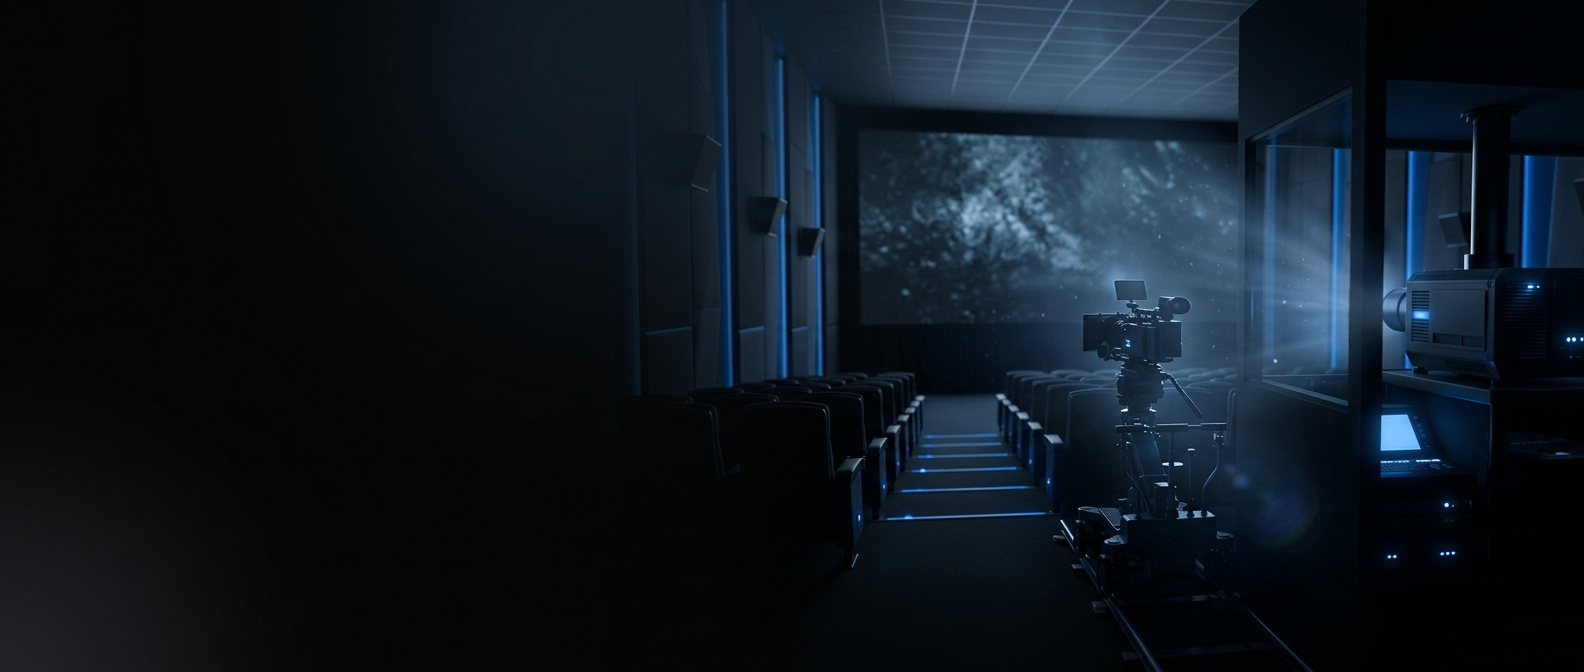
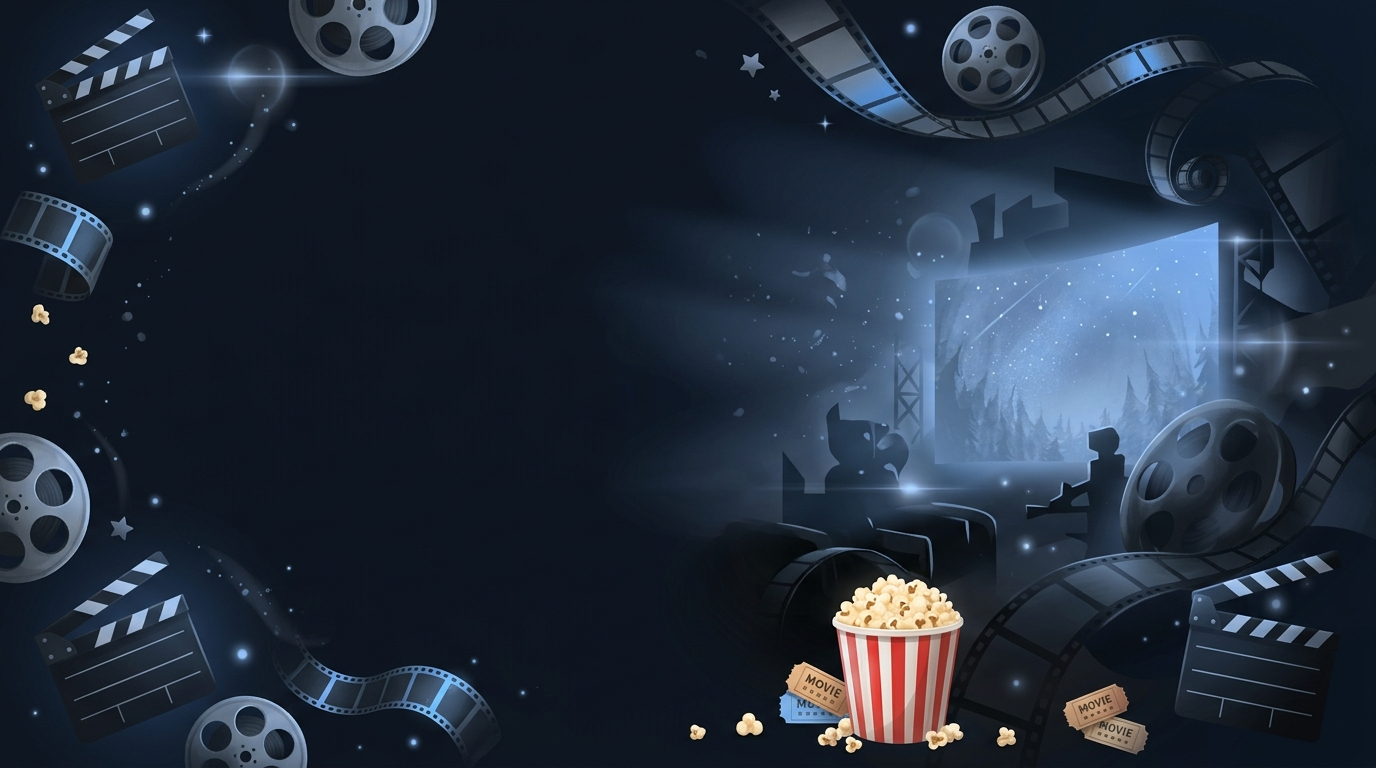
style: cambiar imagen hero, colores y grosor del svg

diff --git a/css/estilos.css b/css/estilos.css
@@ -1,9 +1,3 @@
-/* ==========================================================
-   CineCollect — hoja de estilos
-   Pensada exclusivamente para la estructura HTML existente
-   (header / nav, dos <section>, tres <article>, footer).
-   ========================================================== */
-
 @import url('https://fonts.googleapis.com/css2?family=Playfair+Display:wght@600;700;800&family=Outfit:wght@600;700;800&family=Inter:wght@400;500;600;700&display=swap');
 
 :root {
@@ -14,13 +8,12 @@
   --text: #f3f2f6;
   --text-muted: #9b9aa4;
 
-  --yellow: #f2c14e;
+  --light-blue: #66a3f3;
   --yellow-dark: #1a1508;
   --teal: #49c9c3;
   --red: #ef5f78;
 
-  --font-display: 'Playfair Display', Georgia, serif;
-  --font-h1: 'Outfit', 'Inter', system-ui, sans-serif;
+  --font-principal: 'Outfit', 'Inter', system-ui, sans-serif;
   --font-body: 'Inter', system-ui, -apple-system, sans-serif;
 }
 
@@ -62,11 +55,11 @@ header {
 }
 
 header h2 {
-  font-family: var(--font-display);
+  font-family: var(--font-principal);
   font-size: 1.4rem;
   font-weight: 700;
   margin: 0;
-  color: var(--yellow);
+  color: var(--light-blue);
   white-space: nowrap;
 }
 
@@ -101,7 +94,7 @@ header div a {
 
 header div a:hover,
 header div a:focus-visible {
-  border-color: var(--yellow);
+  border-color: var(--light-blue);
   background: rgba(242, 193, 78, 0.08);
 }
 
@@ -121,6 +114,7 @@ main > section:first-of-type {
   padding: 5rem 0 4rem;
   background-image:
     linear-gradient(180deg, rgba(8, 8, 12, 0.75) 0%, rgba(8, 8, 12, 0.92) 100%),
+    linear-gradient(90deg, rgba(8, 8, 12, 0.98) 0%, rgba(8, 8, 12, 0) 18%, rgba(8, 8, 12, 0) 82%, rgba(8, 8, 12, 0.98) 100%),
     url('../assets/hero_background.webp');
   background-size: cover;
   background-position: center;
@@ -129,7 +123,7 @@ main > section:first-of-type {
 }
 
 main > section:first-of-type h1 {
-  font-family: var(--font-h1);
+  font-family: var(--font-principal);
   font-size: clamp(2rem, 4vw, 2.9rem);
   font-weight: 700;
   line-height: 1.25;
@@ -149,8 +143,8 @@ main > section:first-of-type a {
   display: inline-flex;
   align-items: center;
   gap: 0.55rem;
-  background: var(--yellow);
-  color: var(--yellow-dark);
+  background: var(--light-blue);
+  color: var(--light-blue-dark);
   font-weight: 600;
   font-size: 0.98rem;
   padding: 0.85rem 1.75rem;
@@ -161,7 +155,8 @@ main > section:first-of-type a {
 main > section:first-of-type a svg {
   width: 18px;
   height: 18px;
-  color: var(--yellow-dark);
+  color: var(--light-blue-dark);
+  stroke-width: 2.5;
   flex-shrink: 0;
 }
 
@@ -192,7 +187,7 @@ main > section:last-of-type > header {
 }
 
 main > section:last-of-type > header h2 {
-  font-family: var(--font-display);
+  font-family: var(--font-principal);
   font-size: 1.9rem;
   font-weight: 700;
   color: var(--text);
@@ -229,8 +224,8 @@ article:nth-of-type(1) svg {
 }
 
 article:nth-of-type(2) svg {
-  color: var(--yellow);
-  background: rgba(242, 193, 78, 0.12);
+  color: var(--light-blue);
+  background: rgb(30, 49, 73);
 }
 
 article:nth-of-type(3) svg {

diff --git a/index.html b/index.html
@@ -4,7 +4,7 @@
     <meta charset="UTF-8">
     <meta name="viewport" content="width=device-width, initial-scale=1.0">
     <link rel="stylesheet" href="./css/estilos.css">
-    <title>CineCollect</title>
+    <title>Cinecollect - Inicio</title>
 </head>
 
 <body>
@@ -28,16 +28,13 @@
             y construye tu catalogo cinematografico definitivo sin complicaciones.</p>
 
             <a href="">
-                <svg xmlns="http://www.w3.org/2000/svg" width="24" height="24" viewBox="0 0 24 24" fill="none" stroke="currentColor" stroke-width="1.5" stroke-linecap="round" stroke-linejoin="round" class="icon icon-tabler icons-tabler-outline icon-tabler-list">
+                <svg xmlns="http://www.w3.org/2000/svg" width="24" height="24" viewBox="0 0 24 24" fill="none" stroke="currentColor" stroke-width="1.5" stroke-linecap="round" stroke-linejoin="round" class="icon icon-tabler icons-tabler-outline icon-tabler-search">
                 <path stroke="none" d="M0 0h24v24H0z" fill="none" />
-                <path d="M9 6l11 0" />
-                <path d="M9 12l11 0" />
-                <path d="M9 18l11 0" />
-                <path d="M5 6l0 .01" />
-                <path d="M5 12l0 .01" />
-                <path d="M5 18l0 .01" />
-            </svg>
-            Explorar Catálogo</a>
+                <path d="M10 10m-7 0a7 7 0 1 0 14 0a7 7 0 1 0 -14 0" />
+                <path d="M21 21l-6 -6" />
+                </svg>
+            Explorar Catálogo
+            </a>
         </section>
 
         <section>
